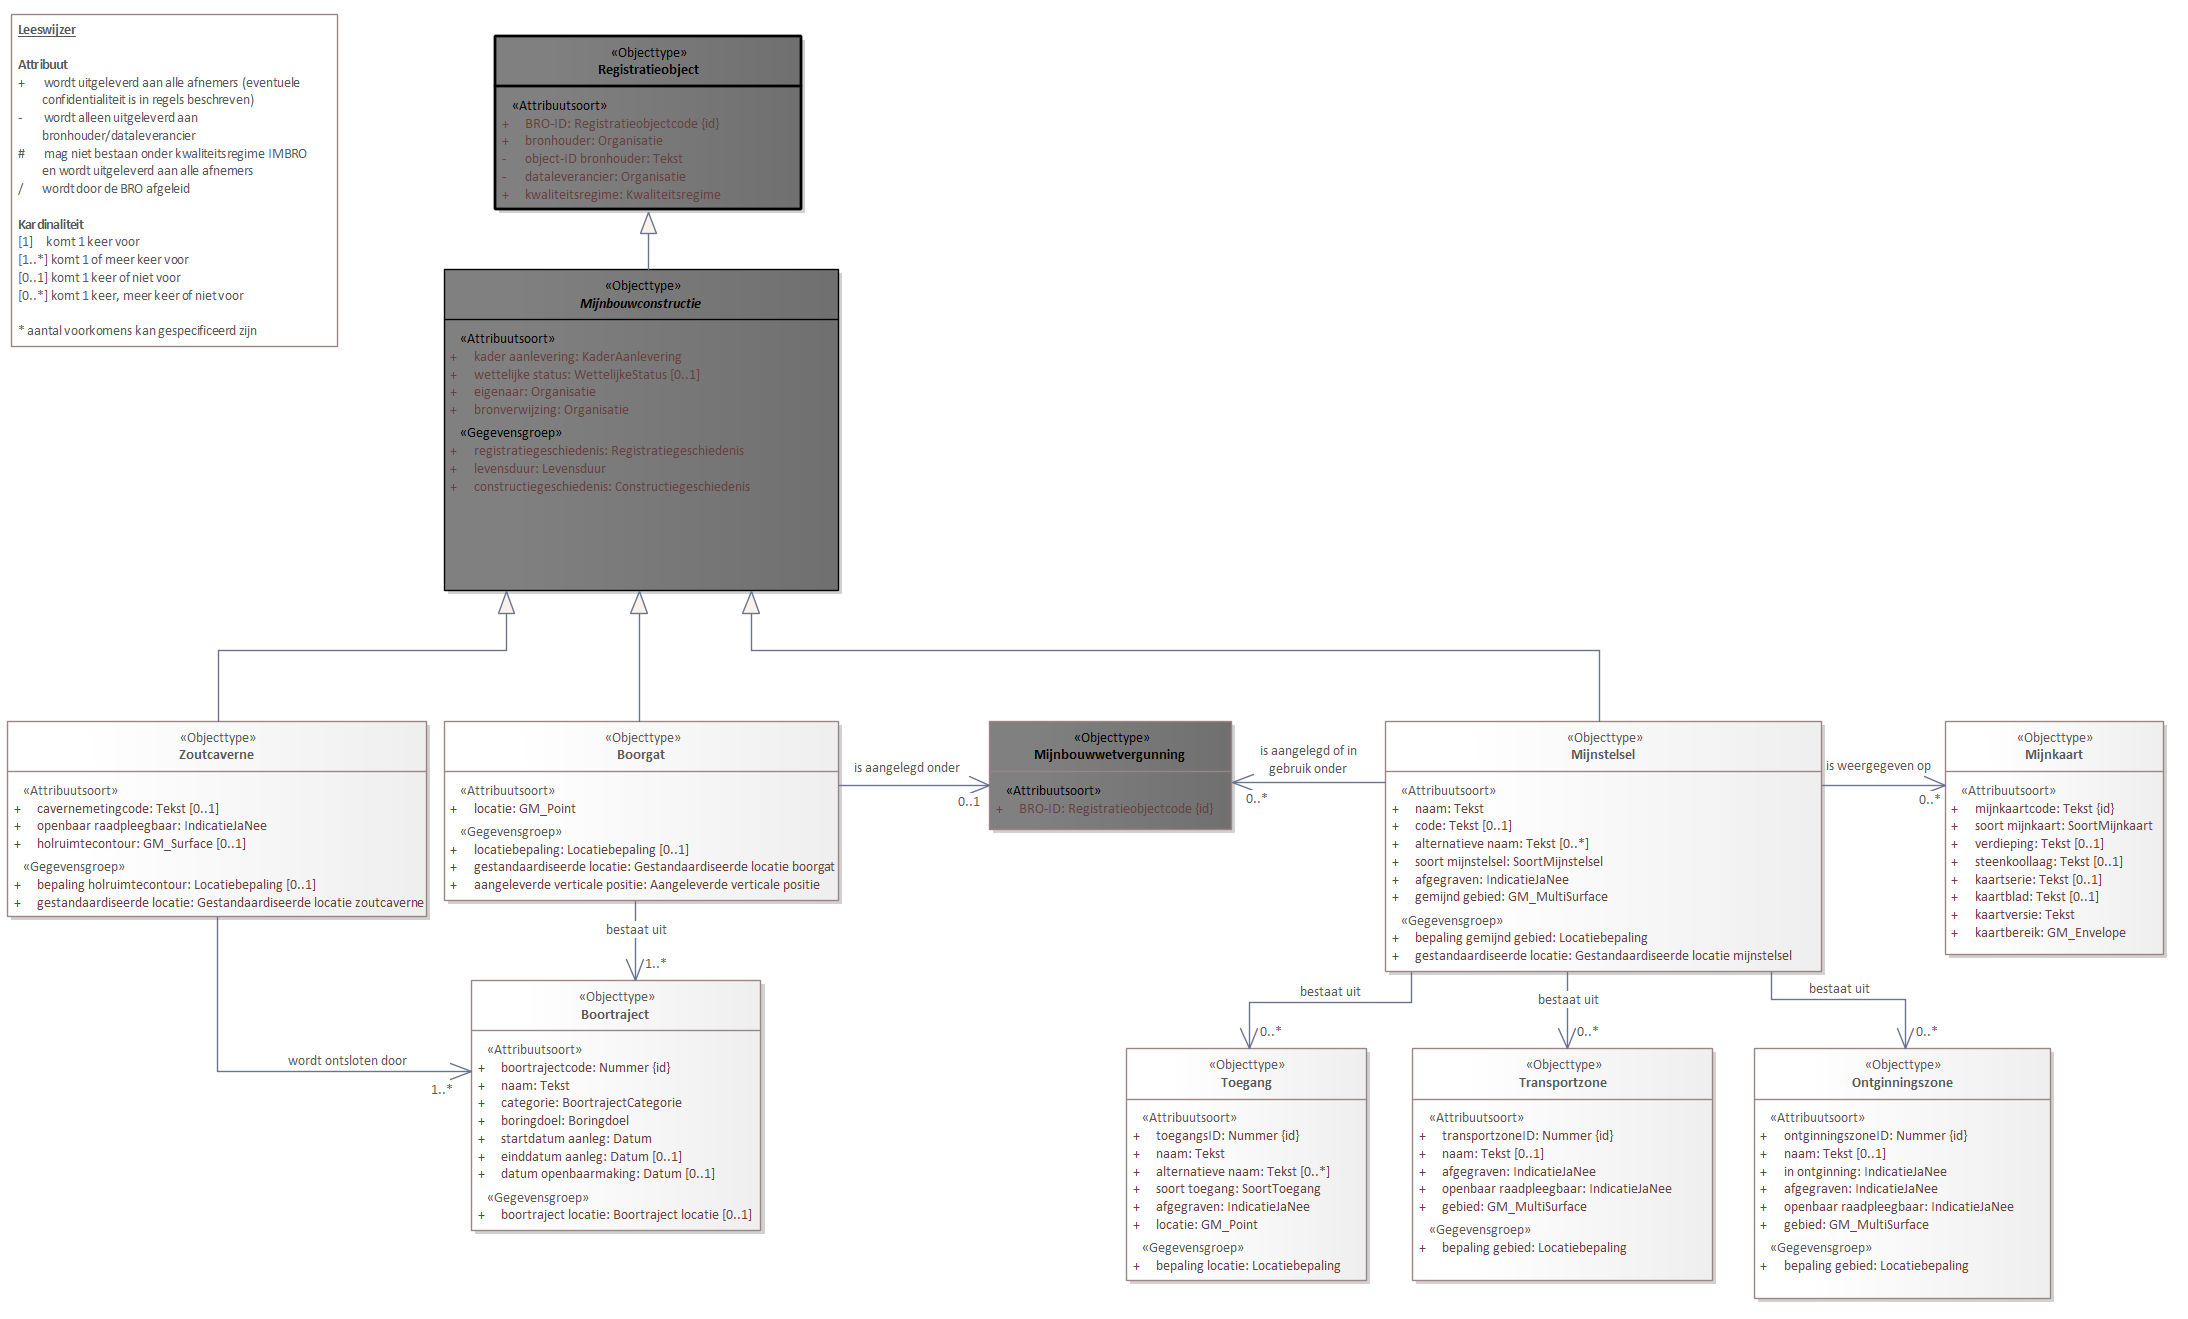
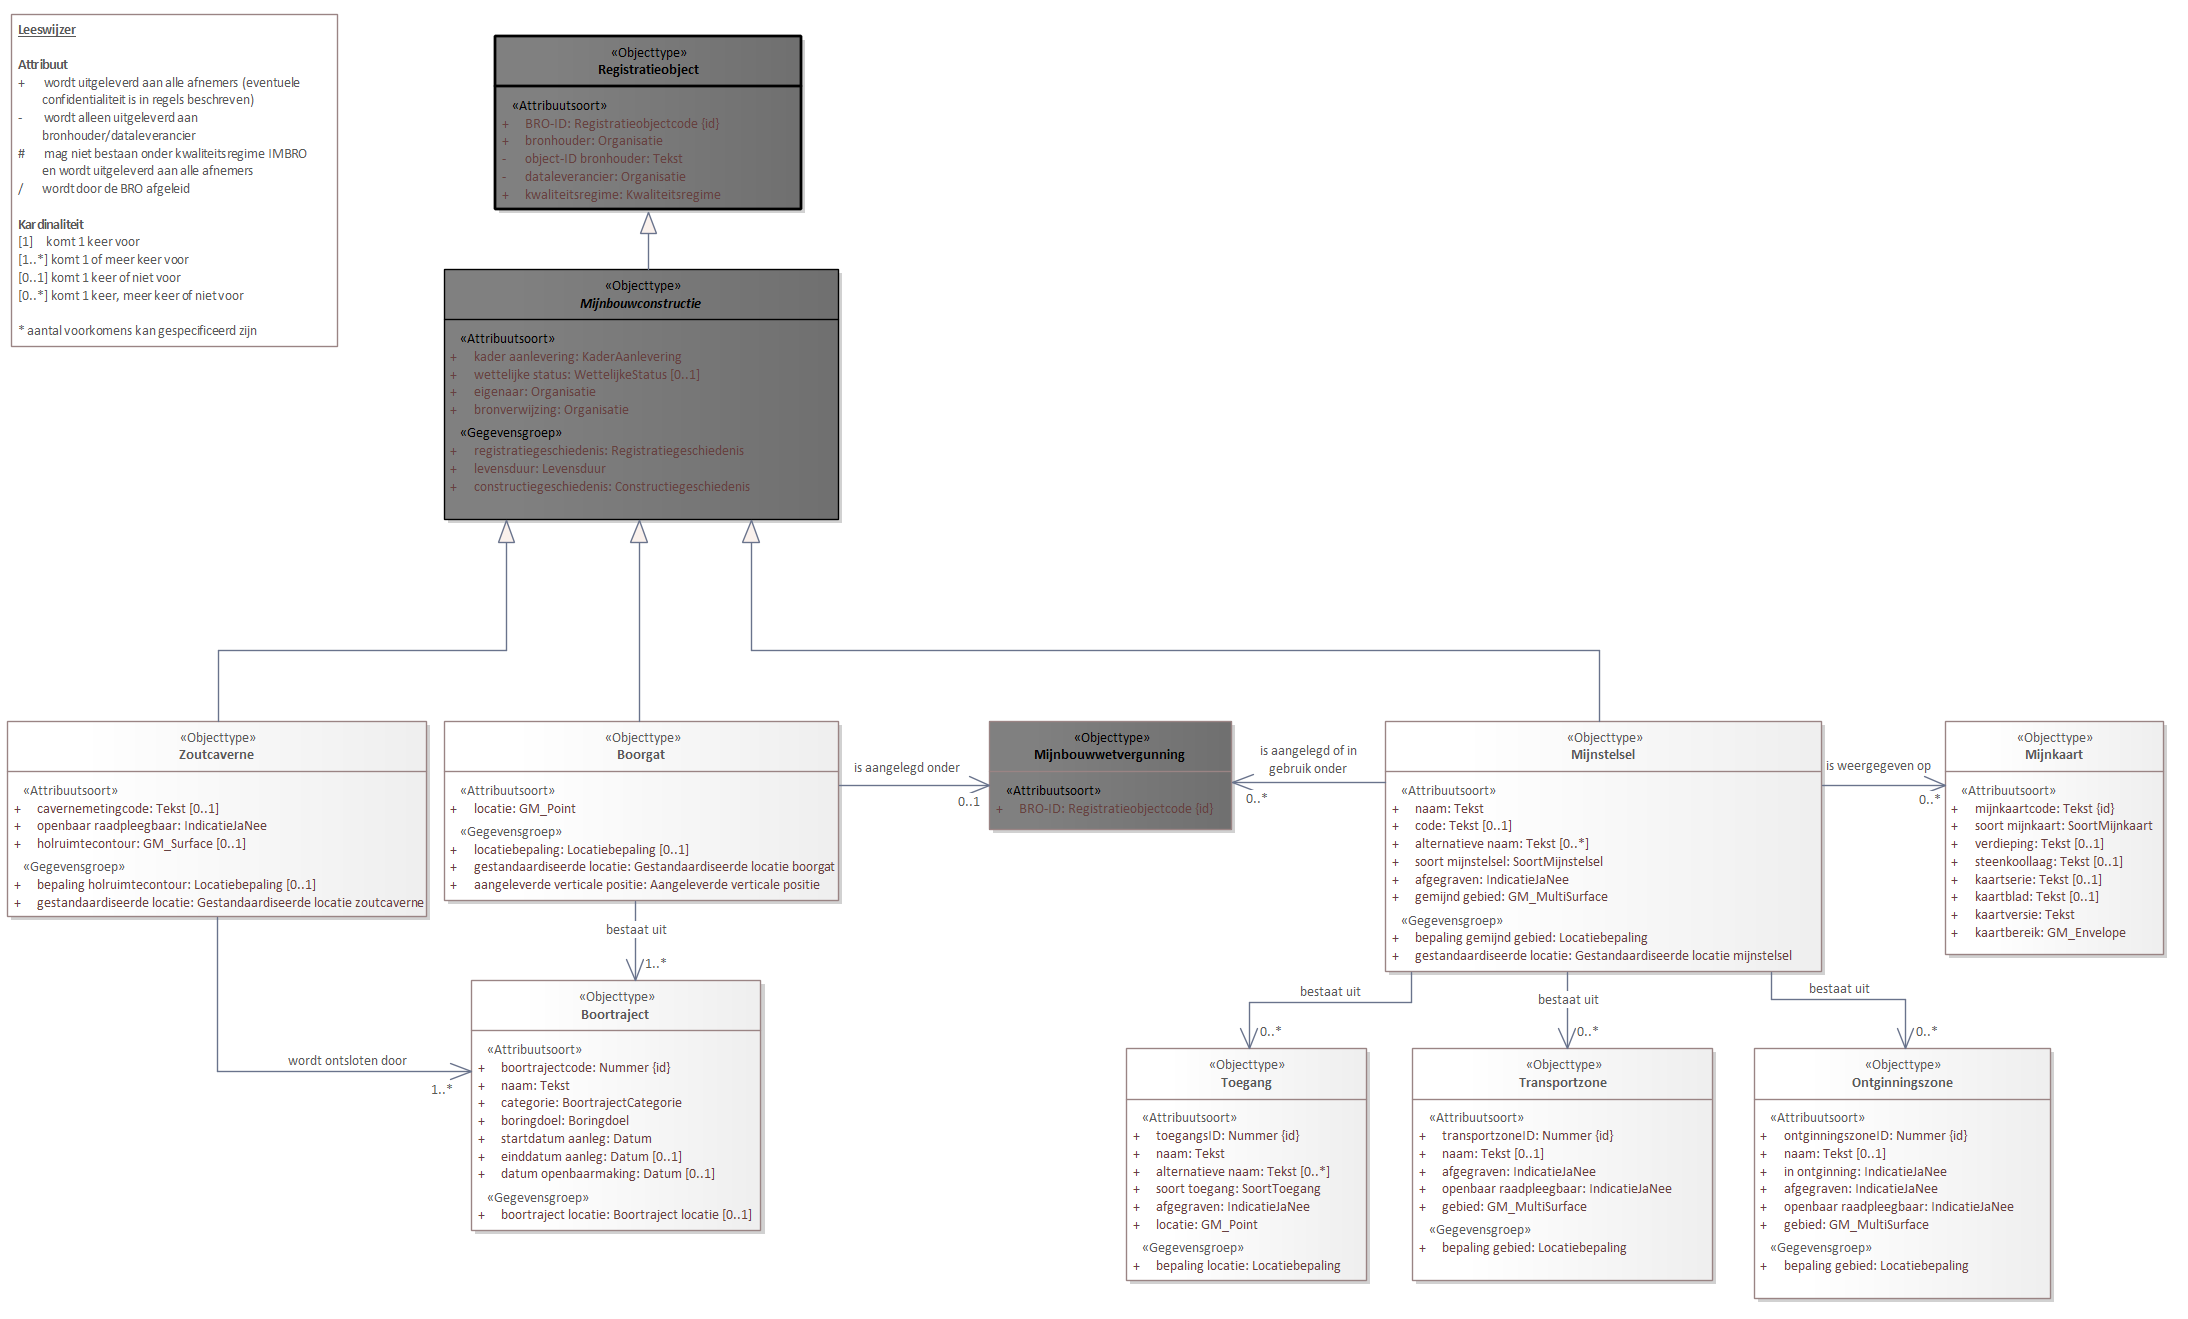
Conceptualmodel-MijnbouwconstructiesEPC-conceptueel-1.0-3-20211010-20250822-180205

Changed region(s): [[0.1865, 0.373, 0.404, 0.4663]]

diff --git a/data/EPC-cat.msword.html b/data/EPC-cat.msword.html
@@ -15,7 +15,7 @@
    <body>
       <p>Conceptual model/Mijnbouwconstructies (EPC) - conceptueel/20211010</p>
       <p>Imvertor: 3.0.0</p>
-      <p>Model release: Conceptualmodel-MijnbouwconstructiesEPC-conceptueel-1.0-3-20211010-20250822-175746</p>
+      <p>Model release: Conceptualmodel-MijnbouwconstructiesEPC-conceptueel-1.0-3-20211010-20250822-180205</p>
       <hr>
       <section>
          <h1>Artikel 1 Definitie van registratieobject, entiteiten en attributen</h1>
@@ -62,7 +62,7 @@
          <section>
             <h2>Het domeinmodel</h2>
             <section>
-               <div class="imageinfo overview"><img src="Images/EAID_017CB205_53B6_4659_8664_F773CFA9FA2C.png" usemap="#imagemap-EAID_017CB205_53B6_4659_8664_F773CFA9FA2C" alt="Diagram &#xA;                        Verwijst naar&#xA;                     "><map name="imagemap-EAID_017CB205_53B6_4659_8664_F773CFA9FA2C"><area shape="rect" alt="Registratieobject" coords="495,36,802,210" href="#global_class_Model_Registratieobject"><area shape="rect" alt="Mijnbouwwetvergunning" coords="989,721,1232,830" href="#global_class_Model_Mijnbouwwetvergunning"><area shape="rect" alt="Zoutcaverne" coords="7,721,427,917" href="#global_class_Model_Zoutcaverne"><area shape="rect" alt="Mijnkaart" coords="1945,721,2164,955" href="#global_class_Model_Mijnkaart"><area shape="rect" alt="Ontginningszone" coords="1754,1048,2051,1299" href="#global_class_Model_Ontginningszone"><area shape="rect" alt="Transportzone" coords="1412,1048,1713,1281" href="#global_class_Model_Transportzone"><area shape="rect" alt="Toegang" coords="1126,1048,1367,1281" href="#global_class_Model_Toegang"><area shape="rect" alt="Mijnstelsel" coords="1385,721,1822,972" href="#global_class_Model_Mijnstelsel"><area shape="rect" alt="Boorgat" coords="444,721,839,901" href="#global_class_Model_Boorgat"><area shape="rect" alt="Boortraject" coords="471,980,761,1231" href="#global_class_Model_Boortraject"><area shape="rect" alt="Mijnbouwconstructie" coords="444,269,839,591" href="#global_class_Model_Mijnbouwconstructie"></map><p><b>Mijnbouwconstructies (EPC) -  overzicht</b>
+               <div class="imageinfo overview"><img src="Images/EAID_017CB205_53B6_4659_8664_F773CFA9FA2C.png" usemap="#imagemap-EAID_017CB205_53B6_4659_8664_F773CFA9FA2C" alt="Diagram &#xA;                        Verwijst naar&#xA;                     "><map name="imagemap-EAID_017CB205_53B6_4659_8664_F773CFA9FA2C"><area shape="rect" alt="Registratieobject" coords="495,36,802,210" href="#global_class_Model_Registratieobject"><area shape="rect" alt="Mijnbouwwetvergunning" coords="989,721,1232,830" href="#global_class_Model_Mijnbouwwetvergunning"><area shape="rect" alt="Zoutcaverne" coords="7,721,427,917" href="#global_class_Model_Zoutcaverne"><area shape="rect" alt="Mijnkaart" coords="1945,721,2164,955" href="#global_class_Model_Mijnkaart"><area shape="rect" alt="Ontginningszone" coords="1754,1048,2051,1299" href="#global_class_Model_Ontginningszone"><area shape="rect" alt="Transportzone" coords="1412,1048,1713,1281" href="#global_class_Model_Transportzone"><area shape="rect" alt="Toegang" coords="1126,1048,1367,1281" href="#global_class_Model_Toegang"><area shape="rect" alt="Mijnstelsel" coords="1385,721,1822,972" href="#global_class_Model_Mijnstelsel"><area shape="rect" alt="Boorgat" coords="444,721,839,901" href="#global_class_Model_Boorgat"><area shape="rect" alt="Boortraject" coords="471,980,761,1231" href="#global_class_Model_Boortraject"><area shape="rect" alt="Mijnbouwconstructie" coords="444,269,839,520" href="#global_class_Model_Mijnbouwconstructie"></map><p><b>Mijnbouwconstructies (EPC) -  overzicht</b>
                      
                      <p>Verwijst naar</p>
                      </p>

diff --git a/data/EPC-cat.respec.html b/data/EPC-cat.respec.html
@@ -40,7 +40,7 @@
       </section>
    <section>
       <h2>Het domeinmodel   </h2>
-      <div class="imageinfo overview"><img src="data/Images/EAID_017CB205_53B6_4659_8664_F773CFA9FA2C.png" usemap="#imagemap-EAID_017CB205_53B6_4659_8664_F773CFA9FA2C" alt="Diagram &#xA;                        Verwijst naar&#xA;                     "><map name="imagemap-EAID_017CB205_53B6_4659_8664_F773CFA9FA2C"><area shape="rect" alt="Registratieobject" coords="495,36,802,210" href="#global_class_Model_Registratieobject"><area shape="rect" alt="Mijnbouwwetvergunning" coords="989,721,1232,830" href="#global_class_Model_Mijnbouwwetvergunning"><area shape="rect" alt="Zoutcaverne" coords="7,721,427,917" href="#global_class_Model_Zoutcaverne"><area shape="rect" alt="Mijnkaart" coords="1945,721,2164,955" href="#global_class_Model_Mijnkaart"><area shape="rect" alt="Ontginningszone" coords="1754,1048,2051,1299" href="#global_class_Model_Ontginningszone"><area shape="rect" alt="Transportzone" coords="1412,1048,1713,1281" href="#global_class_Model_Transportzone"><area shape="rect" alt="Toegang" coords="1126,1048,1367,1281" href="#global_class_Model_Toegang"><area shape="rect" alt="Mijnstelsel" coords="1385,721,1822,972" href="#global_class_Model_Mijnstelsel"><area shape="rect" alt="Boorgat" coords="444,721,839,901" href="#global_class_Model_Boorgat"><area shape="rect" alt="Boortraject" coords="471,980,761,1231" href="#global_class_Model_Boortraject"><area shape="rect" alt="Mijnbouwconstructie" coords="444,269,839,591" href="#global_class_Model_Mijnbouwconstructie"></map><p><b>Mijnbouwconstructies (EPC) -  overzicht</b>
+      <div class="imageinfo overview"><img src="data/Images/EAID_017CB205_53B6_4659_8664_F773CFA9FA2C.png" usemap="#imagemap-EAID_017CB205_53B6_4659_8664_F773CFA9FA2C" alt="Diagram &#xA;                        Verwijst naar&#xA;                     "><map name="imagemap-EAID_017CB205_53B6_4659_8664_F773CFA9FA2C"><area shape="rect" alt="Registratieobject" coords="495,36,802,210" href="#global_class_Model_Registratieobject"><area shape="rect" alt="Mijnbouwwetvergunning" coords="989,721,1232,830" href="#global_class_Model_Mijnbouwwetvergunning"><area shape="rect" alt="Zoutcaverne" coords="7,721,427,917" href="#global_class_Model_Zoutcaverne"><area shape="rect" alt="Mijnkaart" coords="1945,721,2164,955" href="#global_class_Model_Mijnkaart"><area shape="rect" alt="Ontginningszone" coords="1754,1048,2051,1299" href="#global_class_Model_Ontginningszone"><area shape="rect" alt="Transportzone" coords="1412,1048,1713,1281" href="#global_class_Model_Transportzone"><area shape="rect" alt="Toegang" coords="1126,1048,1367,1281" href="#global_class_Model_Toegang"><area shape="rect" alt="Mijnstelsel" coords="1385,721,1822,972" href="#global_class_Model_Mijnstelsel"><area shape="rect" alt="Boorgat" coords="444,721,839,901" href="#global_class_Model_Boorgat"><area shape="rect" alt="Boortraject" coords="471,980,761,1231" href="#global_class_Model_Boortraject"><area shape="rect" alt="Mijnbouwconstructie" coords="444,269,839,520" href="#global_class_Model_Mijnbouwconstructie"></map><p><b>Mijnbouwconstructies (EPC) -  overzicht</b>
             
             <p>Verwijst naar</p>
             </p>
